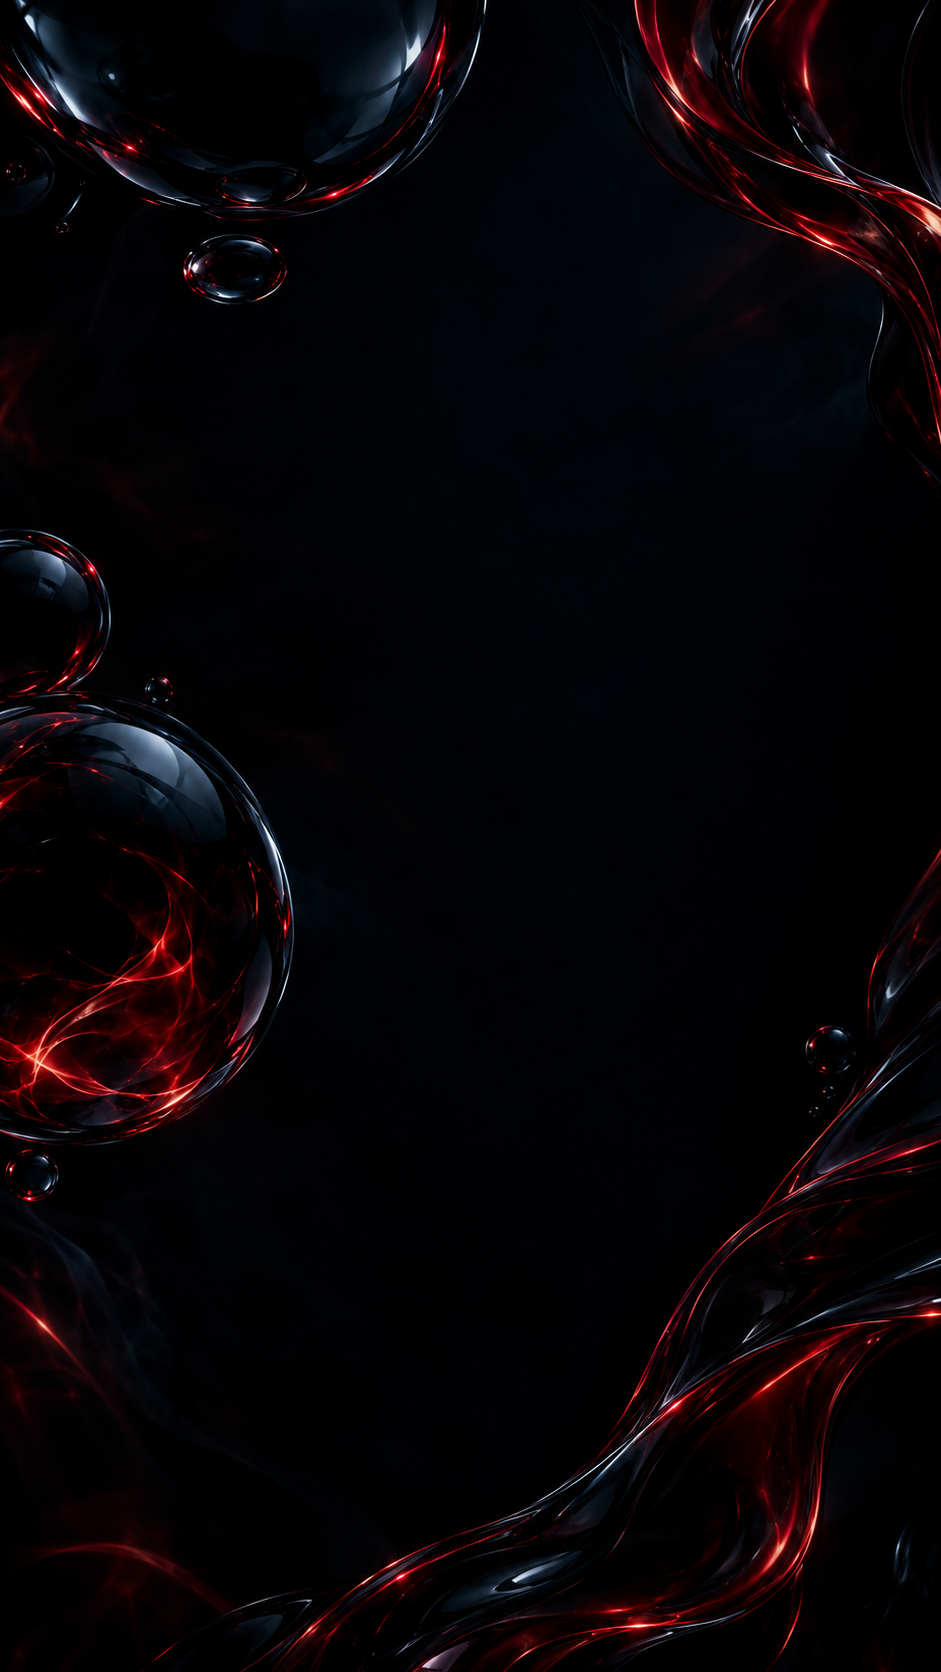
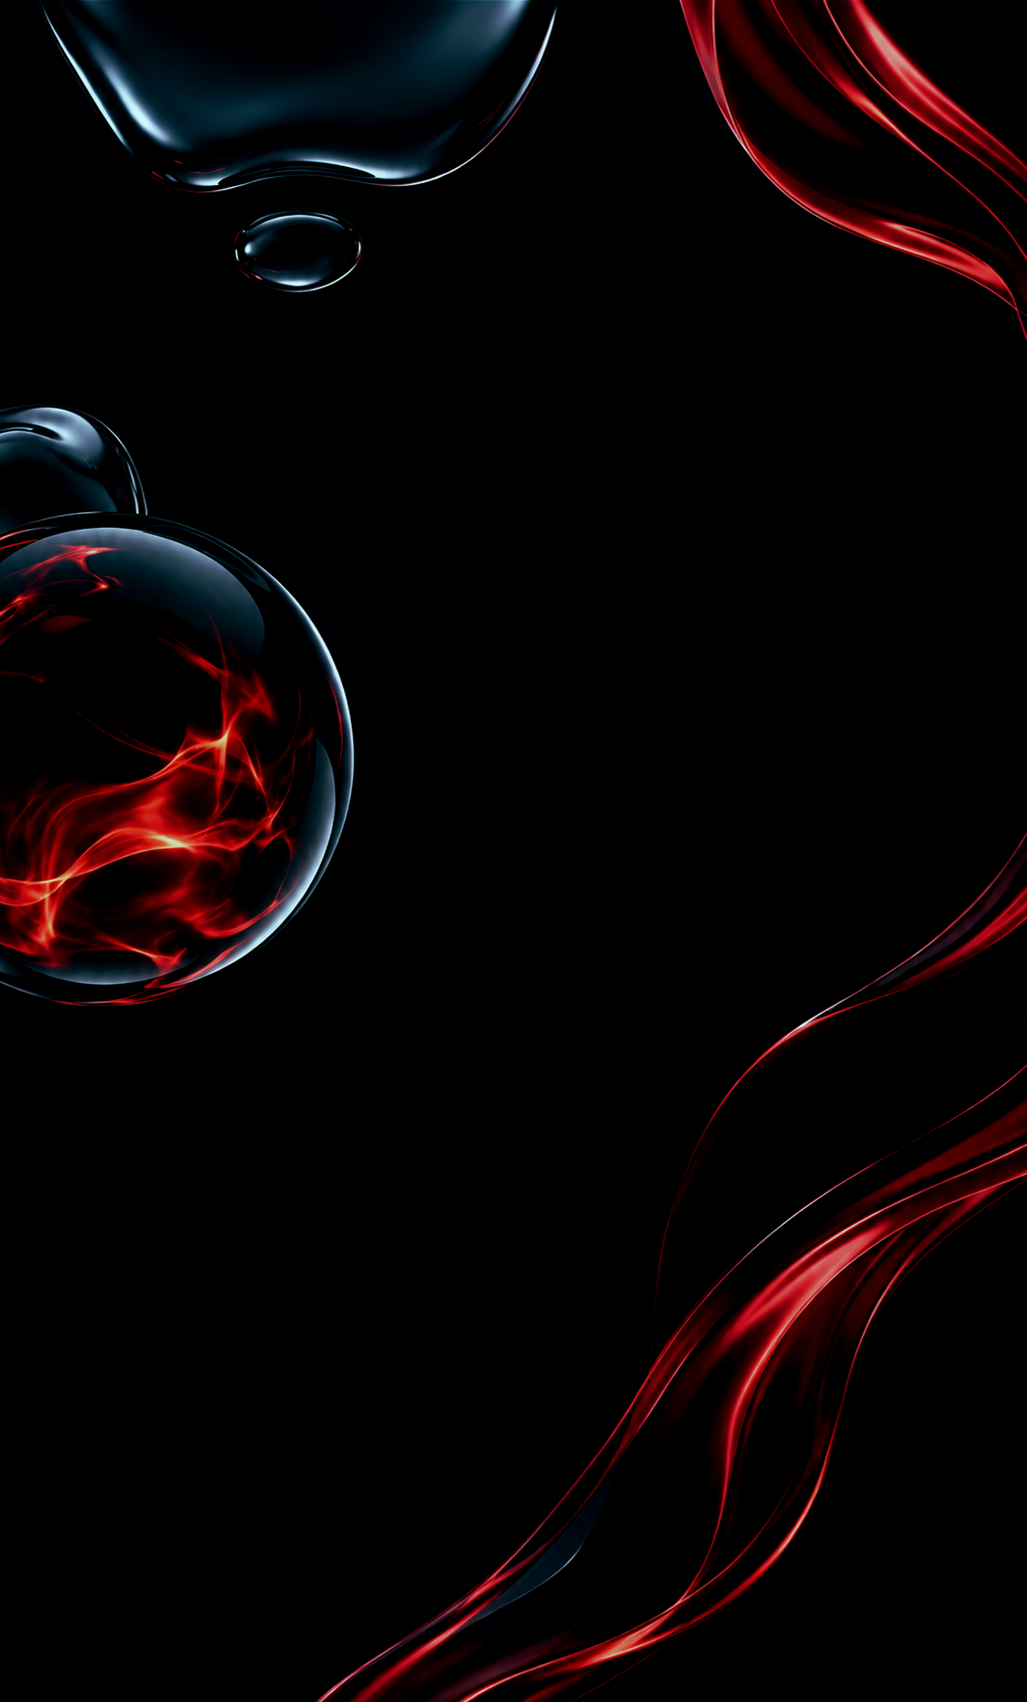
Add files via upload

diff --git a/index.html b/index.html
@@ -1437,7 +1437,7 @@
         width: 100%;
         height: auto;
 
-        background-image: url("32.png") !important;
+        background-image: url("./32.png") !important;
         background-position: center center !important;
         background-repeat: no-repeat !important;
         background-size: cover !important;
@@ -2775,7 +2775,7 @@
                     <div>
                         <span class="card-category-kicker">Personal Branding</span>
                         <h3 class="card-title">
-                            <a href="https://forhad2008.github.io/abdullahpsychotic/" target="_blank">Abdullah Psychotic Lifestyle Portal</a>
+                            <a href="https://forhad2008.github.io/Abdullah-psychotic/" target="_blank">Abdullah Psychotic Lifestyle Portal</a>
                         </h3>
                         <p class="card-desc">Immersive personal empire digital platform with dynamic product systems.</p>
                         <div class="card-specs">
